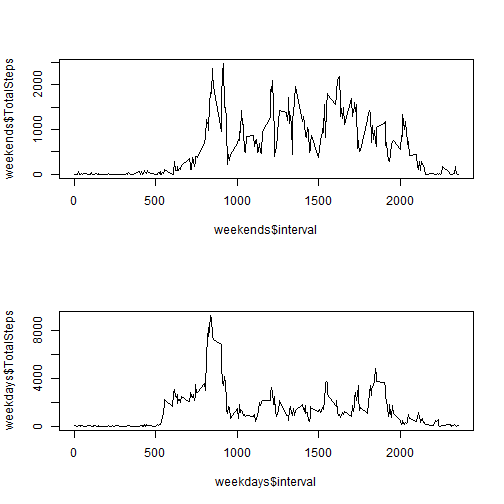
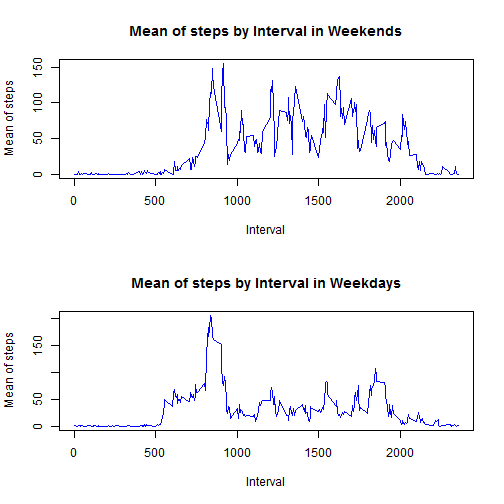
Format was applied to the project

diff --git a/PA1_template.html b/PA1_template.html
@@ -209,7 +209,7 @@ hr {
 
 <h2>Loading and preprocessing the data</h2>
 
-<p>The first step is to load the file with the data source.</p>
+<p>The first step is to load the file containing the data source.</p>
 
 <pre><code class="r">rawds &lt;- read.csv(&quot;activity.csv&quot;, head=TRUE, sep=&quot;,&quot;, col.names = c(&quot;steps&quot;,&quot;date&quot;,&quot;interval&quot;))
 </code></pre>
@@ -225,7 +225,7 @@ rawds &lt;- mutate(rawds, fdate = as.Date(date, &quot;%Y-%m-%d&quot;))
 
 <h2>What is mean total number of steps taken per day?</h2>
 
-<p>It is required to calculate the total of steps by day, mean and median. It is important to mention 
+<p>It is required to calculate the total of steps by day, the mean and median. It is important to mention 
 that the NA values will be ignored.</p>
 
 <pre><code class="r">dategrp &lt;- group_by(rawds, fdate)
@@ -235,10 +235,10 @@ StepsMedian = median(steps, na.rm = TRUE))
 
 <p>The total of steps can be represented in a histogram:</p>
 
-<pre><code class="r">hist(stepsds$TotalSteps)
+<pre><code class="r">hist(stepsds$TotalSteps, main=&quot;Histogram of Total Steps by day&quot;, xlab=&quot;Total Steps by day&quot;, col = &quot;lightblue&quot;)
 </code></pre>
 
[2 lines of base64/hex data omitted]
 
 <p>The mean and median for the total steps in each day are:</p>
 
@@ -632,15 +632,16 @@ StepsMedian = median(steps, na.rm = TRUE))
 
 <pre><code class="r">patterngrp &lt;- group_by(rawds, interval)
 patternds &lt;- summarise(patterngrp, TotalSteps = sum(steps, na.rm = TRUE), 
-IntervalMean = mean(steps, na.rm = TRUE), IntervalMedia = median(steps, na.rm = TRUE))
+    IntervalMean = mean(steps, na.rm = TRUE), IntervalMedia = median(steps, na.rm = TRUE))
 </code></pre>
 
 <p>With the new data set, the pattern of the intervals for the steps can be visualize.</p>
 
-<pre><code class="r">plot(patternds$interval, patternds$IntervalMean, type=&quot;l&quot;)
+<pre><code class="r">plot(patternds$interval, patternds$IntervalMean, type=&quot;l&quot;, col = &quot;blue&quot;, main=&quot;Mean of steps by Interval&quot;, 
+    xlab=&quot;Interval&quot;, ylab=&quot;Mean of steps&quot;)
 </code></pre>
 
[2 lines of base64/hex data omitted]
 
 <h2></br></h2>
 
@@ -680,10 +681,11 @@ StepsMedian = median(steps))
 
 <p>With the calculated data, it is possible to generate the </p>
 
-<pre><code class="r">hist(stepsdsNA$TotalSteps)
+<pre><code class="r">hist(stepsdsNA$TotalSteps, main=&quot;Histogram of Total Steps by day with Corrected NA values&quot;,
+    xlab=&quot;Total Steps by day&quot;, col = &quot;lightblue&quot;)
 </code></pre>
 
[2 lines of base64/hex data omitted]
 
 <p>The median and median for each day can be visualize as:</p>
 
@@ -1081,7 +1083,7 @@ StepsMedian = median(steps))
 <p>After creating the categorical data, a new data frame must be created to store the averages of steps per interval.</p>
 
 <pre><code class="r">patterngrpdaytyp &lt;- group_by(simds, daytype,interval)
-patterndsdaytyp &lt;- summarise(patterngrpdaytyp, TotalSteps = sum(steps, na.rm = TRUE))
+patterndsdaytyp &lt;- summarise(patterngrpdaytyp, MeanSteps = mean(steps))
 </code></pre>
 
 <p>With the new categorical variable it is possibly to see the difference between weekdays and weekends:</p>
@@ -1089,11 +1091,15 @@ patterndsdaytyp &lt;- summarise(patterngrpdaytyp, TotalSteps = sum(steps, na.rm 
 <pre><code class="r">par(mfrow = c(2,1))
 weekends &lt;- patterndsdaytyp[patterndsdaytyp$daytype == &quot;weekend&quot;, ]
 weekdays &lt;- patterndsdaytyp[patterndsdaytyp$daytype == &quot;weekday&quot;, ]
-plot(weekends$interval, weekends$TotalSteps, type=&quot;l&quot;)
-plot(weekdays$interval, weekdays$TotalSteps, type=&quot;l&quot;)
+plot(weekends$interval, weekends$MeanSteps, type=&quot;l&quot;, col = &quot;blue&quot;, 
+    main=&quot;Mean of steps by Interval in Weekends&quot;, 
+    xlab=&quot;Interval&quot;, ylab=&quot;Mean of steps&quot;)
+plot(weekdays$interval, weekdays$MeanSteps, type=&quot;l&quot;, col = &quot;blue&quot;, 
+    main=&quot;Mean of steps by Interval in Weekdays&quot;, 
+    xlab=&quot;Interval&quot;, ylab=&quot;Mean of steps&quot;)
 </code></pre>
 
[2 lines of base64/hex data omitted]
 
 </body>
 

diff --git a/PA1_template.md b/PA1_template.md
@@ -10,7 +10,7 @@ output:
 
 ## </br>
 ## Loading and preprocessing the data
-The first step is to load the file with the data source.
+The first step is to load the file containing the data source.
 
 ```r
 rawds <- read.csv("activity.csv", head=TRUE, sep=",", col.names = c("steps","date","interval"))
@@ -25,7 +25,7 @@ rawds <- mutate(rawds, fdate = as.Date(date, "%Y-%m-%d"))
 
 ## </br>
 ## What is mean total number of steps taken per day?
-It is required to calculate the total of steps by day, mean and median. It is important to mention 
+It is required to calculate the total of steps by day, the mean and median. It is important to mention 
 that the NA values will be ignored.
 
 ```r
@@ -36,7 +36,7 @@ StepsMedian = median(steps, na.rm = TRUE))
 The total of steps can be represented in a histogram:
 
 ```r
-hist(stepsds$TotalSteps)
+hist(stepsds$TotalSteps, main="Histogram of Total Steps by day", xlab="Total Steps by day", col = "lightblue")
 ```
 
 ![plot of chunk unnamed-chunk-4](figure/unnamed-chunk-4-1.png) 
@@ -433,13 +433,14 @@ In order to display a pattern of the activity it is necessary to pre-calculate a
 ```r
 patterngrp <- group_by(rawds, interval)
 patternds <- summarise(patterngrp, TotalSteps = sum(steps, na.rm = TRUE), 
-IntervalMean = mean(steps, na.rm = TRUE), IntervalMedia = median(steps, na.rm = TRUE))
+	IntervalMean = mean(steps, na.rm = TRUE), IntervalMedia = median(steps, na.rm = TRUE))
 ```
 
 With the new data set, the pattern of the intervals for the steps can be visualize.
 
 ```r
-plot(patternds$interval, patternds$IntervalMean, type="l")
+plot(patternds$interval, patternds$IntervalMean, type="l", col = "blue", main="Mean of steps by Interval", 
+	xlab="Interval", ylab="Mean of steps")
 ```
 
 ![plot of chunk unnamed-chunk-6](figure/unnamed-chunk-6-1.png) 
@@ -485,7 +486,8 @@ StepsMedian = median(steps))
 With the calculated data, it is possible to generate the 
 
 ```r
-hist(stepsdsNA$TotalSteps)
+hist(stepsdsNA$TotalSteps, main="Histogram of Total Steps by day with Corrected NA values",
+	xlab="Total Steps by day", col = "lightblue")
 ```
 
 ![plot of chunk unnamed-chunk-10](figure/unnamed-chunk-10-1.png) 
@@ -888,7 +890,7 @@ After creating the categorical data, a new data frame must be created to store t
 
 ```r
 patterngrpdaytyp <- group_by(simds, daytype,interval)
-patterndsdaytyp <- summarise(patterngrpdaytyp, TotalSteps = sum(steps, na.rm = TRUE))
+patterndsdaytyp <- summarise(patterngrpdaytyp, MeanSteps = mean(steps))
 ```
 
 With the new categorical variable it is possibly to see the difference between weekdays and weekends:
@@ -897,8 +899,12 @@ With the new categorical variable it is possibly to see the difference between w
 par(mfrow = c(2,1))
 weekends <- patterndsdaytyp[patterndsdaytyp$daytype == "weekend", ]
 weekdays <- patterndsdaytyp[patterndsdaytyp$daytype == "weekday", ]
-plot(weekends$interval, weekends$TotalSteps, type="l")
-plot(weekdays$interval, weekdays$TotalSteps, type="l")
+plot(weekends$interval, weekends$MeanSteps, type="l", col = "blue", 
+	main="Mean of steps by Interval in Weekends", 
+	xlab="Interval", ylab="Mean of steps")
+plot(weekdays$interval, weekdays$MeanSteps, type="l", col = "blue", 
+	main="Mean of steps by Interval in Weekdays", 
+	xlab="Interval", ylab="Mean of steps")
 ```
 
 ![plot of chunk unnamed-chunk-14](figure/unnamed-chunk-14-1.png) 
